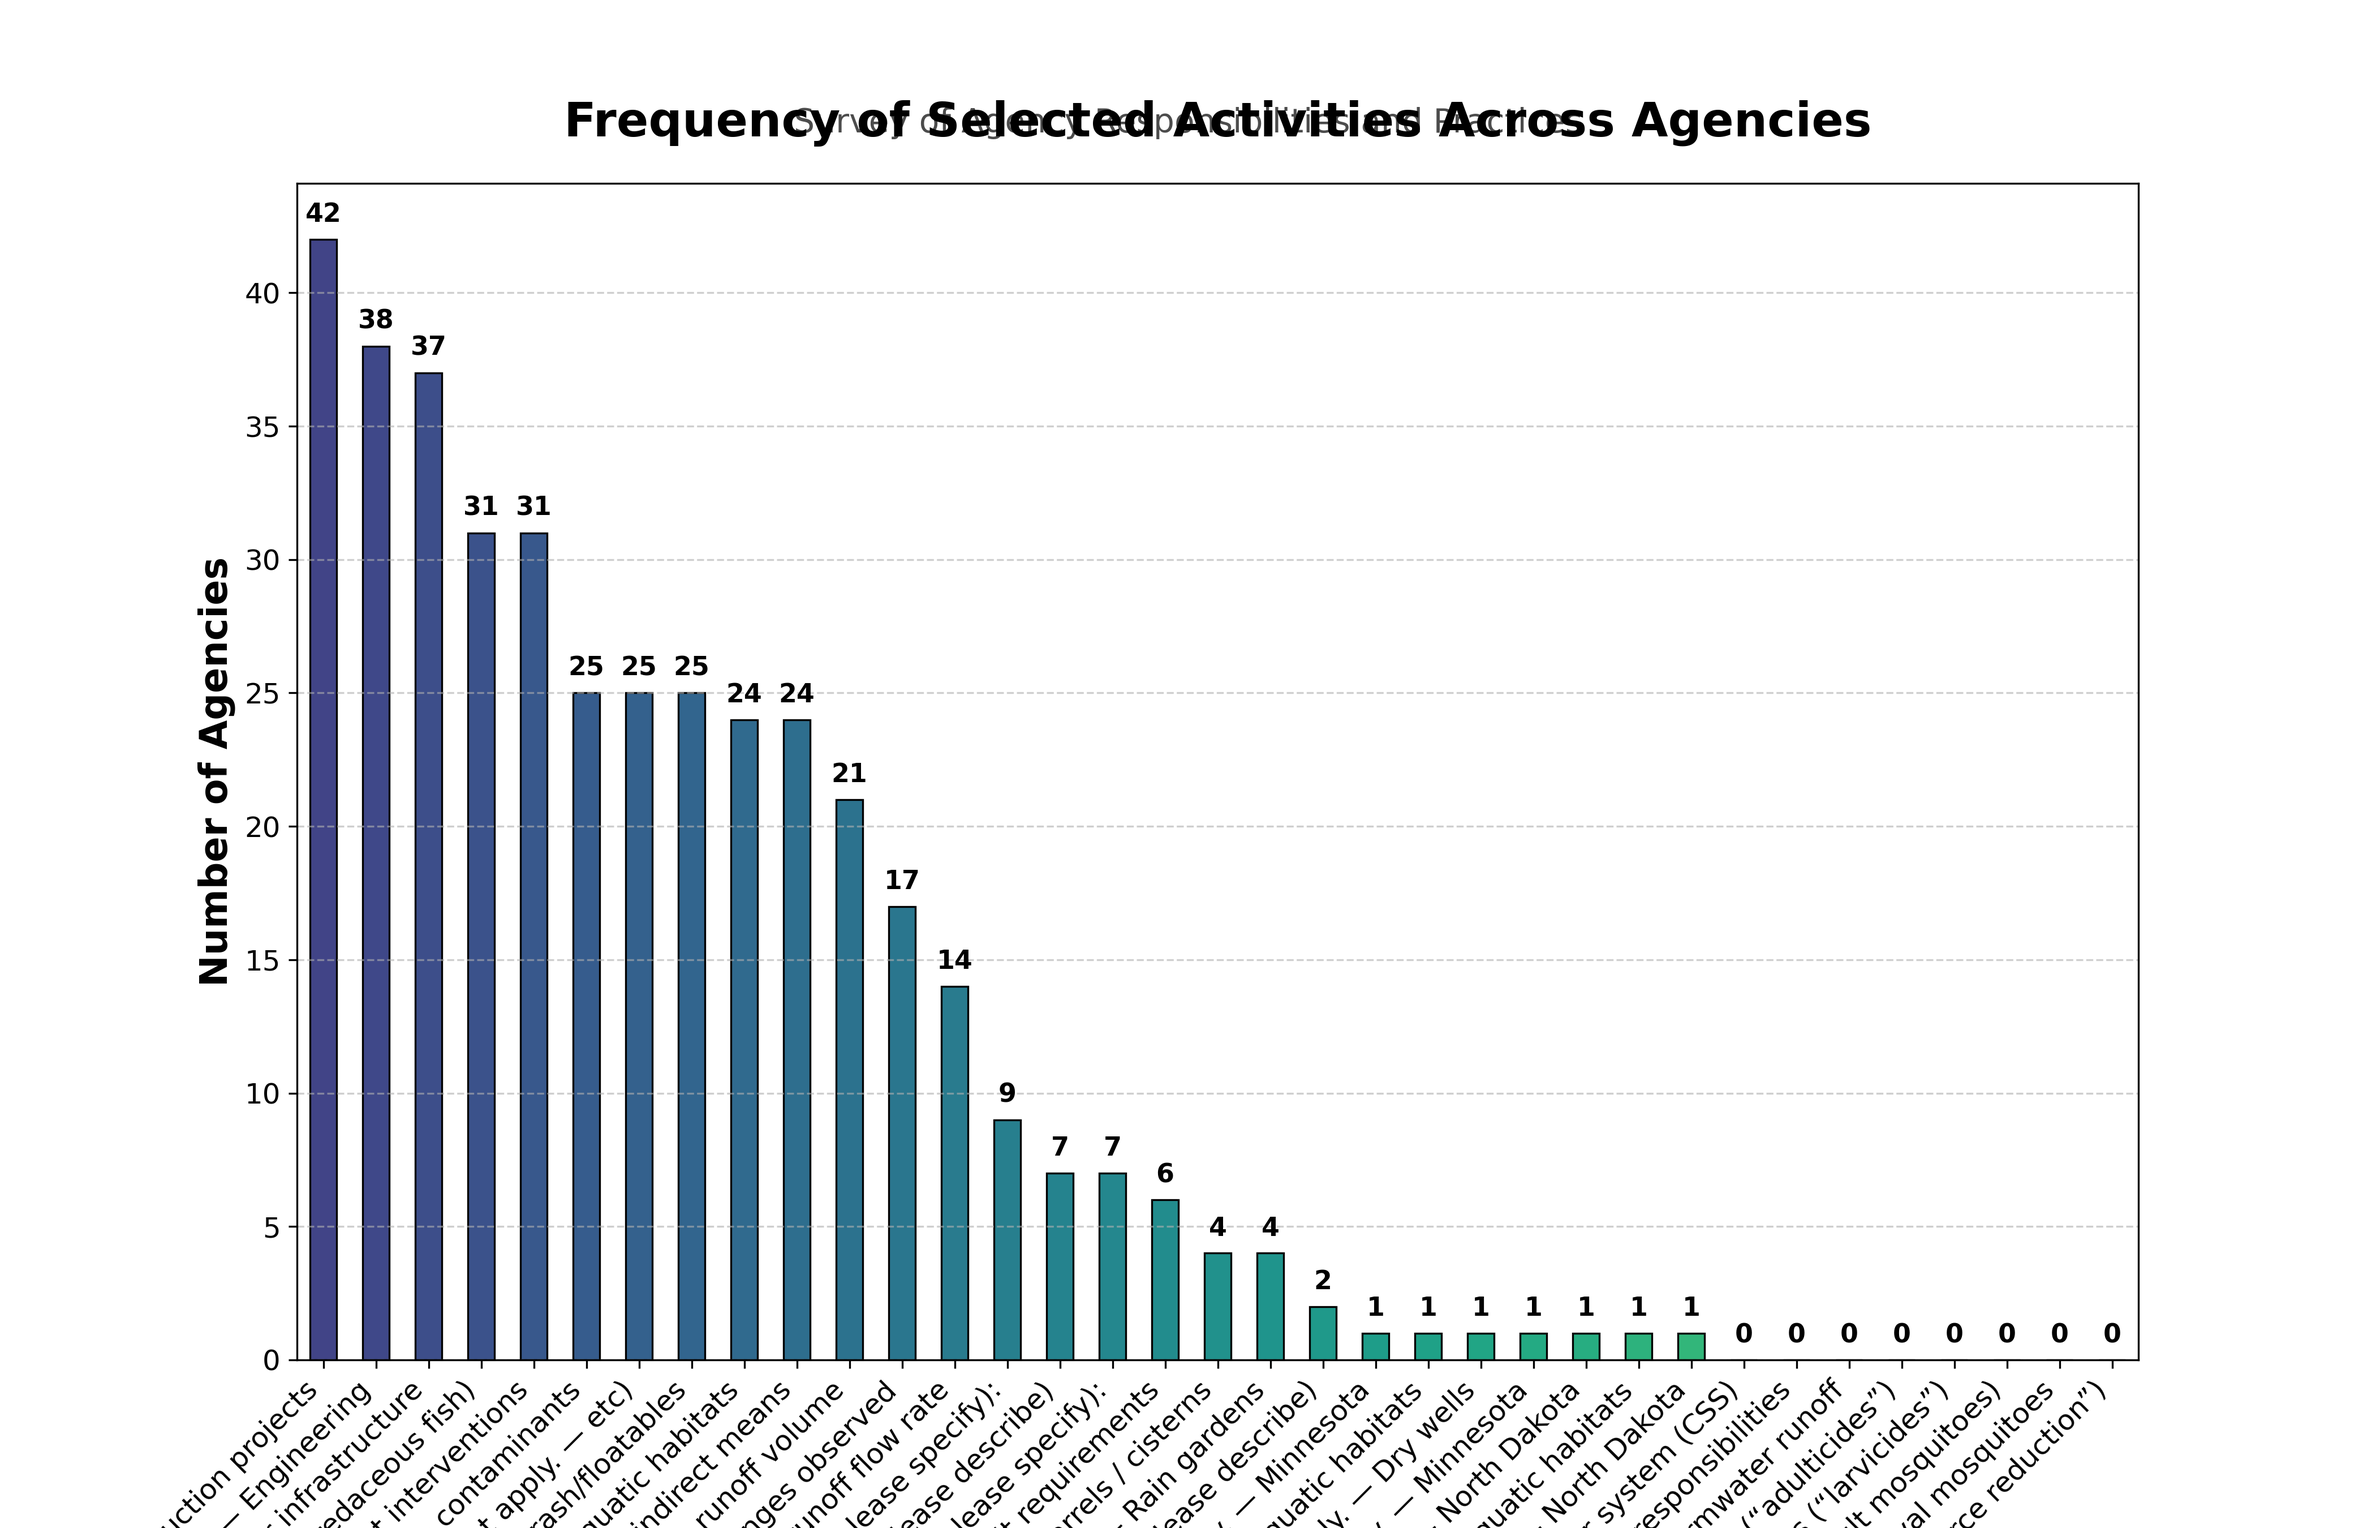
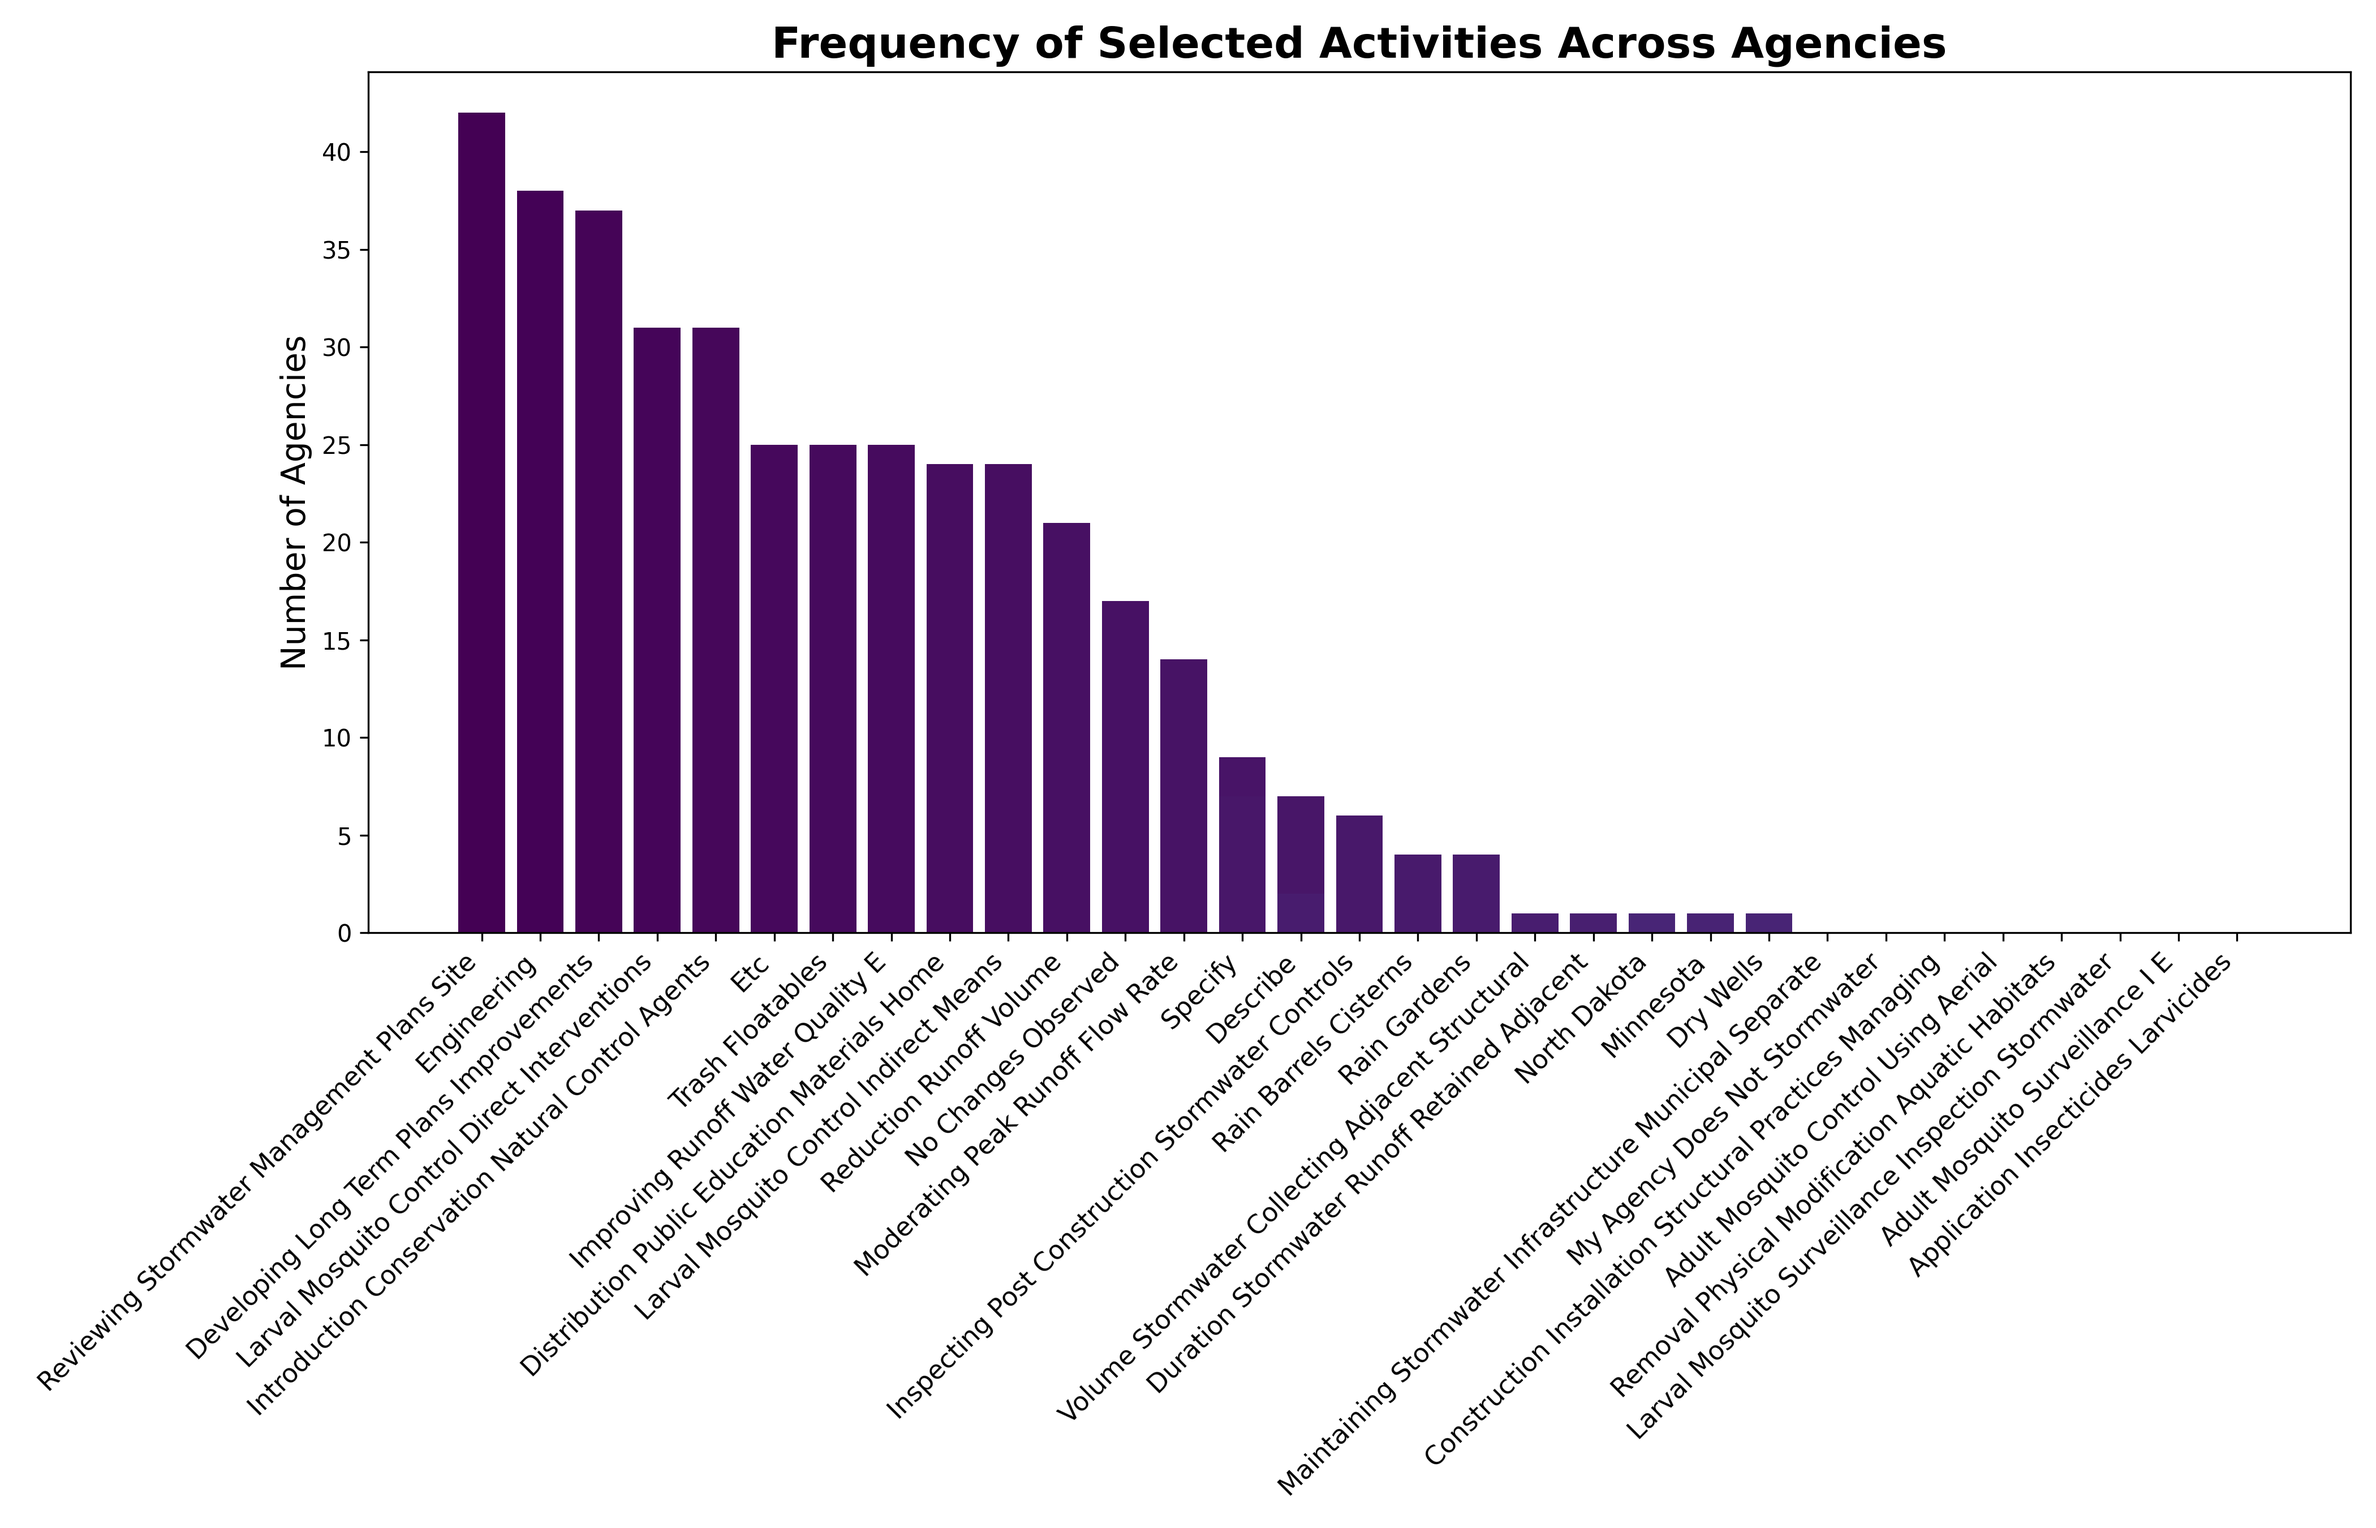
Initial Cleaning of Categorical Labels Using Heuristic Text Extraction

Changed region(s): [[0.0624, 0.0, 0.9357, 1.0], [0.0624, 0.8089, 0.0936, 0.84], [0.0312, 0.84, 0.0624, 0.8711]]

diff --git a/GIS/GIS.py b/GIS/GIS.py
@@ -62,41 +62,65 @@ for col in multi_select_cols:
 import matplotlib.pyplot as plt
 binary_columns = [col for col in df.columns if '—' in col]
 totals = df[binary_columns].sum().sort_values(ascending=False)
-
-import matplotlib.pyplot as plt
-import matplotlib.ticker as mtick
-import numpy as np
-
-plt.figure(figsize=(14, 9))
-
-colors = plt.cm.viridis(np.linspace(0.2, 0.8, len(totals)))
-
-bars = totals.plot(kind='bar', color=colors, edgecolor='black', linewidth=0.8)
-
-plt.title('Frequency of Selected Activities Across Agencies', fontsize=20, weight='bold', pad=20)
-plt.suptitle('Survey of Agency Responsibilities and Practices', fontsize=14, y=0.93, alpha=0.7)
-plt.ylabel('Number of Agencies', fontsize=16, weight='bold')
-plt.xlabel('Activity', fontsize=16, weight='bold')
-
-plt.xticks(rotation=45, ha='right', fontsize=12)
-plt.yticks(fontsize=12)
-
-plt.grid(axis='y', linestyle='--', alpha=0.6)
-
-for bar in bars.patches:
-    height = bar.get_height()
-    bars.annotate(str(int(height)),
-                  xy=(bar.get_x() + bar.get_width() / 2, height),
-                  xytext=(0, 5), 
-                  textcoords="offset points",
-                  ha='center', va='bottom',
-                  fontsize=11,
-                  fontweight='bold')
-
-plt.tight_layout(rect=[0, 0, 1, 0.95]) 
-
 import os
-if not os.path.exists('plots'):
-    os.makedirs('plots')
-plt.savefig('plots/agency_activity_frequency.png', dpi=300)
-plt.show()
+
+def clean_label(label):
+    stop_phrases = [
+        "which of the following", "please select all that apply", "options for",
+        "are undertaken by your agency", "referred to in the question above",
+        "does the geographical area of your agency's jurisdiction", "please check all that apply",
+        "please select all that apply", "most common", "following the implementation of",
+        "have you observed any changes in", "the question above", "please select one"
+    ]
+
+    stopwords = set([
+        "the", "of", "and", "to", "a", "in", "for", "that", "with", "by",
+        "on", "your", "are", "or", "is", "as", "at", "this", "from", "which",
+        "any", "such", "above", "have", "been", "will", "be", "through", "other",
+        "please", "select", "all", "applicable"
+    ])
+
+    label = label.lower()
+    for phrase in stop_phrases:
+        label = label.replace(phrase, "")
+    label = re.sub(r"\s+", " ", label).strip()
+
+    if "—" in label:
+        label = label.split("—")[-1].strip()
+    elif ":" in label:
+        label = label.split(":")[-1].strip()
+    elif "(" in label and ")" in label:
+        label = re.sub(r"\(.*?\)", "", label).strip()
+
+    words = [w for w in re.findall(r"\w+", label) if w not in stopwords]
+
+    label = " ".join(words[:5])
+    label = label.title()
+    return label
+
+def plot_agency_activity_frequency(csv_path):
+    df = pd.read_csv(csv_path)
+    binary_columns = [col for col in df.columns if '—' in col]
+    totals = df[binary_columns].sum().sort_values(ascending=False)
+
+    cleaned_labels = [clean_label(str(lbl)) for lbl in totals.index]
+
+    plt.figure(figsize=(14, 9))
+    bars = plt.bar(cleaned_labels, totals.values, color=plt.cm.viridis(range(len(totals))))
+
+    plt.title('Frequency of Selected Activities Across Agencies', fontsize=18, weight='bold')
+    plt.ylabel('Number of Agencies', fontsize=14)
+    plt.xticks(rotation=45, ha='right', fontsize=11)
+    plt.tight_layout()
+
+    save_dir = 'plots'
+    if not os.path.exists(save_dir):
+        os.makedirs(save_dir)
+
+    save_path = os.path.join(save_dir, 'agency_activity_frequency.png')
+    plt.savefig(save_path, dpi=300)
+    print("Plot saved to", save_path)
+
+    plt.show()
+
+plot_agency_activity_frequency("cleaned_survey_data1.csv")
